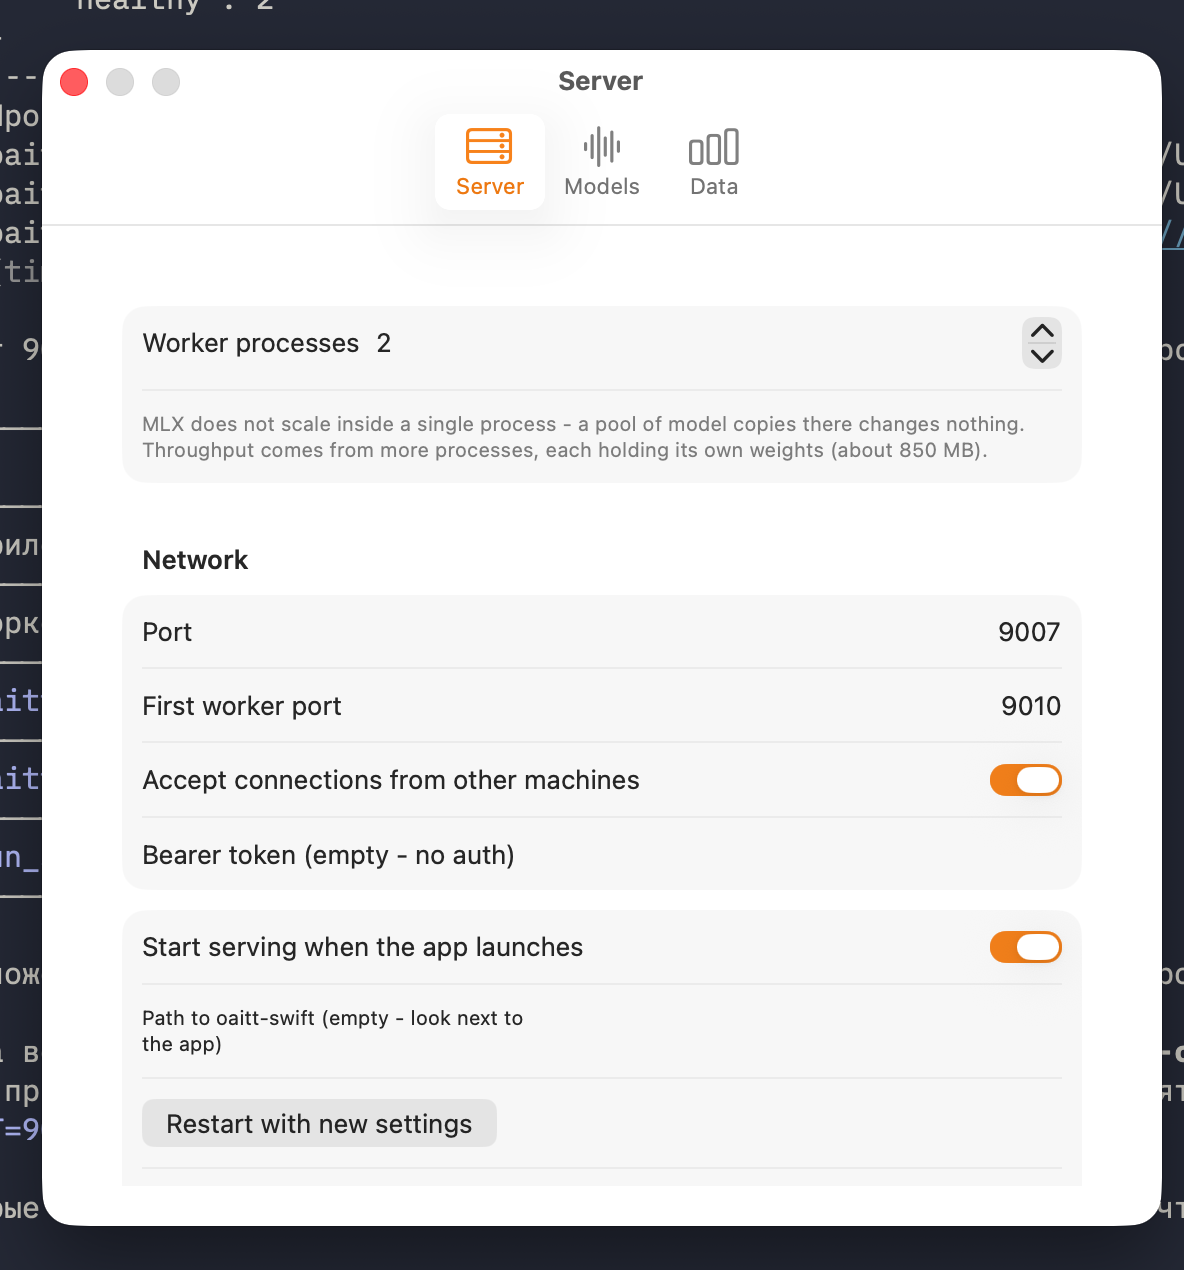
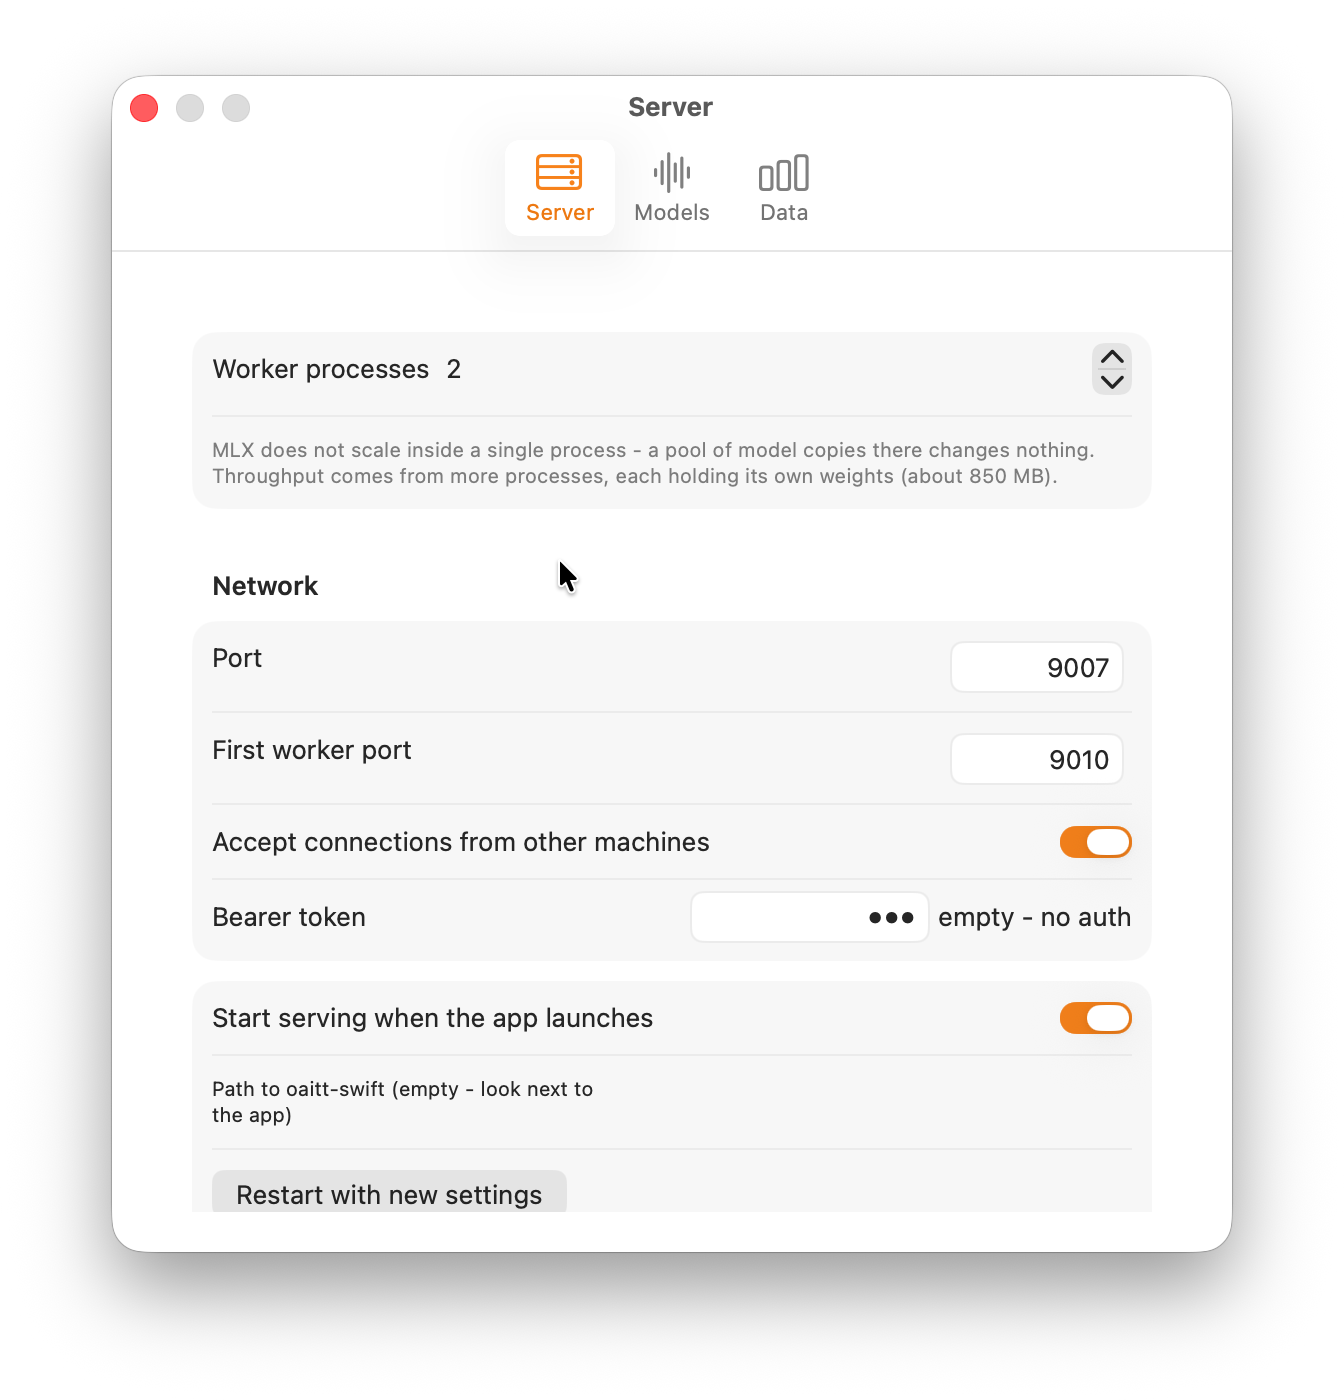
Fix port already used case

diff --git a/swift/Sources/oaitt-swift/OaittSwift.swift b/swift/Sources/oaitt-swift/OaittSwift.swift
@@ -57,6 +57,9 @@ struct ModelOptions: ParsableArguments {
     @Option(help: "Days of request logs to keep; 0 disables logging.")
     var logRetentionDays = 7
 
+    @Flag(help: "Exit when the parent process is gone; used by the app supervisor.")
+    var exitWithParent = false
+
     func makeTranscriber() throws -> GigaAMTranscriber {
         let dir = URL(fileURLWithPath: modelCacheDir).appendingPathComponent(modelType.rawValue)
         return try GigaAMTranscriber(
@@ -100,109 +103,6 @@ struct ModelOptions: ParsableArguments {
     }
 }
 
-struct Transcribe: ParsableCommand {
-    static let configuration = CommandConfiguration(abstract: "Transcribe one audio/video file.")
-
-    @Argument(help: "Path to the audio or video file.")
-    var input: String
-
-    @OptionGroup var model: ModelOptions
-
-    @Flag(help: "Print per-segment timings instead of plain text.")
-    var segments = false
-
-    func run() throws {
-        let loadStart = Date()
-        let transcriber = try model.makeTranscriber()
-        log("loaded \(model.modelType.rawValue) in \(elapsed(since: loadStart))")
-
-        let start = Date()
-        let result = try transcriber.transcribe(url: URL(fileURLWithPath: input))
-        log("transcribed in \(elapsed(since: start))")
-
-        if segments {
-            for s in result { print(String(format: "[%.2f -> %.2f] %@", s.start, s.end, s.text)) }
-        } else {
-            print(result.map(\.text).joined(separator: " "))
-        }
-    }
-
-    private func log(_ message: String) {
-        FileHandle.standardError.write(Data("\(message)\n".utf8))
-    }
-
-    private func elapsed(since: Date) -> String {
-        String(format: "%.2fs", Date().timeIntervalSince(since))
-    }
-}
-
-final class InstanceCounter: @unchecked Sendable {
-    private var value = 0
-    private let lock = NSLock()
-
-    func next() -> Int {
-        lock.withLock {
-            defer { value += 1 }
-            return value
-        }
-    }
-}
-
-struct Bench: ParsableCommand {
-    static let configuration = CommandConfiguration(
-        abstract: "In-process throughput bench: decodes once, then loops transcription.")
-
-    @Argument var input: String
-    @OptionGroup var model: ModelOptions
-    @Option(help: "Parallel worker threads.") var concurrency = 1
-    @Option(help: "Total transcriptions to run.") var iterations = 16
-    @Option(help: "Independent model copies; each worker gets its own.") var instances = 1
-
-    func run() throws {
-        let transcribers = try (0..<instances).map { _ in try model.makeTranscriber() }
-        let transcriber = transcribers[0]
-
-        let decodeStart = Date()
-        let audio = try AudioLoader.load(url: URL(fileURLWithPath: input))
-        let decodeSeconds = Date().timeIntervalSince(decodeStart)
-        let audioSeconds = Double(audio.count) / 16000
-
-        _ = transcriber.transcribe(audio: audio)  // warm kernels
-
-        for t in transcribers.dropFirst() { _ = t.transcribe(audio: audio) }
-
-        let group = DispatchGroup()
-        let queue = DispatchQueue(label: "bench", attributes: .concurrent)
-        let slots = DispatchSemaphore(value: concurrency)
-        let counter = InstanceCounter()
-        let start = Date()
-        for _ in 0..<iterations {
-            slots.wait()
-            queue.async(group: group) {
-                _ = transcribers[counter.next() % transcribers.count].transcribe(audio: audio)
-                slots.signal()
-            }
-        }
-        group.wait()
-        let wall = Date().timeIntervalSince(start)
-
-        print(String(format: "audio        %.1fs", audioSeconds))
-        print(
-            String(
-                format: "decode       %.2fs (%.0fx realtime)", decodeSeconds,
-                audioSeconds / decodeSeconds))
-        print(
-            String(
-                format: "iterations   %d @ concurrency %d, %d instance(s)", iterations, concurrency,
-                instances))
-        print(String(format: "wall         %.2fs", wall))
-        print(
-            String(
-                format: "throughput   %.3f rps, %.1fx realtime", Double(iterations) / wall,
-                Double(iterations) * audioSeconds / wall))
-    }
-}
-
 struct Serve: AsyncParsableCommand {
     static let configuration = CommandConfiguration(
         abstract: "Serve an OpenAI-compatible /v1/audio/transcriptions endpoint.")
@@ -219,6 +119,8 @@ struct Serve: AsyncParsableCommand {
     @OptionGroup var model: ModelOptions
 
     func run() async throws {
+        if model.exitWithParent { Self.exitWhenOrphaned() }
+
         let transcriber = try model.makeTranscriber()
         let registry = model.makeRegistry(fallback: transcriber)
         let modelType = model.modelType
@@ -479,6 +381,18 @@ struct Serve: AsyncParsableCommand {
             return json(payload)
         default:
             return json(["text": outText])
+        }
+    }
+
+    /// Иначе воркер переживает смерть приложения, остаётся сиротой и держит порт: новый
+    /// запуск не может его занять и выглядит как "worker crashed".
+    static func exitWhenOrphaned() {
+        let parent = getppid()
+        Thread.detachNewThread {
+            while true {
+                Thread.sleep(forTimeInterval: 2)
+                if getppid() != parent || getppid() == 1 { Foundation.exit(0) }
+            }
         }
     }
 

diff --git a/swift/Sources/oaitt-swift/Commands.swift b/swift/Sources/oaitt-swift/Commands.swift
@@ -1,0 +1,106 @@
+import ArgumentParser
+import Foundation
+import GigaAM
+
+struct Transcribe: ParsableCommand {
+    static let configuration = CommandConfiguration(abstract: "Transcribe one audio/video file.")
+
+    @Argument(help: "Path to the audio or video file.")
+    var input: String
+
+    @OptionGroup var model: ModelOptions
+
+    @Flag(help: "Print per-segment timings instead of plain text.")
+    var segments = false
+
+    func run() throws {
+        let loadStart = Date()
+        let transcriber = try model.makeTranscriber()
+        log("loaded \(model.modelType.rawValue) in \(elapsed(since: loadStart))")
+
+        let start = Date()
+        let result = try transcriber.transcribe(url: URL(fileURLWithPath: input))
+        log("transcribed in \(elapsed(since: start))")
+
+        if segments {
+            for s in result { print(String(format: "[%.2f -> %.2f] %@", s.start, s.end, s.text)) }
+        } else {
+            print(result.map(\.text).joined(separator: " "))
+        }
+    }
+
+    private func log(_ message: String) {
+        FileHandle.standardError.write(Data("\(message)\n".utf8))
+    }
+
+    private func elapsed(since: Date) -> String {
+        String(format: "%.2fs", Date().timeIntervalSince(since))
+    }
+}
+
+final class InstanceCounter: @unchecked Sendable {
+    private var value = 0
+    private let lock = NSLock()
+
+    func next() -> Int {
+        lock.withLock {
+            defer { value += 1 }
+            return value
+        }
+    }
+}
+
+struct Bench: ParsableCommand {
+    static let configuration = CommandConfiguration(
+        abstract: "In-process throughput bench: decodes once, then loops transcription.")
+
+    @Argument var input: String
+    @OptionGroup var model: ModelOptions
+    @Option(help: "Parallel worker threads.") var concurrency = 1
+    @Option(help: "Total transcriptions to run.") var iterations = 16
+    @Option(help: "Independent model copies; each worker gets its own.") var instances = 1
+
+    func run() throws {
+        let transcribers = try (0..<instances).map { _ in try model.makeTranscriber() }
+        let transcriber = transcribers[0]
+
+        let decodeStart = Date()
+        let audio = try AudioLoader.load(url: URL(fileURLWithPath: input))
+        let decodeSeconds = Date().timeIntervalSince(decodeStart)
+        let audioSeconds = Double(audio.count) / 16000
+
+        _ = transcriber.transcribe(audio: audio)  // warm kernels
+
+        for t in transcribers.dropFirst() { _ = t.transcribe(audio: audio) }
+
+        let group = DispatchGroup()
+        let queue = DispatchQueue(label: "bench", attributes: .concurrent)
+        let slots = DispatchSemaphore(value: concurrency)
+        let counter = InstanceCounter()
+        let start = Date()
+        for _ in 0..<iterations {
+            slots.wait()
+            queue.async(group: group) {
+                _ = transcribers[counter.next() % transcribers.count].transcribe(audio: audio)
+                slots.signal()
+            }
+        }
+        group.wait()
+        let wall = Date().timeIntervalSince(start)
+
+        print(String(format: "audio        %.1fs", audioSeconds))
+        print(
+            String(
+                format: "decode       %.2fs (%.0fx realtime)", decodeSeconds,
+                audioSeconds / decodeSeconds))
+        print(
+            String(
+                format: "iterations   %d @ concurrency %d, %d instance(s)", iterations, concurrency,
+                instances))
+        print(String(format: "wall         %.2fs", wall))
+        print(
+            String(
+                format: "throughput   %.3f rps, %.1fx realtime", Double(iterations) / wall,
+                Double(iterations) * audioSeconds / wall))
+    }
+}

diff --git a/swift/Sources/OAITT/Supervisor.swift b/swift/Sources/OAITT/Supervisor.swift
@@ -40,6 +40,27 @@ final class Supervisor: @unchecked Sendable {
     private var shuttingDown = false
     private let queue = DispatchQueue(label: "oaitt.supervisor")
 
+    /// Кто держит порт. Чаще всего это осиротевший воркер прошлого запуска, и без этой
+    /// проверки всё выглядит как "worker crashed 11 times".
+    static func portInUse(_ port: Int) -> String? {
+        let process = Process()
+        process.executableURL = URL(fileURLWithPath: "/usr/sbin/lsof")
+        process.arguments = ["-nP", "-iTCP:\(port)", "-sTCP:LISTEN", "-F", "c"]
+        let pipe = Pipe()
+        process.standardOutput = pipe
+        process.standardError = FileHandle.nullDevice
+        guard (try? process.run()) != nil else { return nil }
+
+        let data = pipe.fileHandleForReading.readDataToEndOfFile()
+        process.waitUntilExit()
+
+        let names = String(decoding: data, as: UTF8.self)
+            .split(separator: "\n")
+            .filter { $0.hasPrefix("c") }
+            .map { String($0.dropFirst()) }
+        return names.first
+    }
+
     /// Понятное сообщение вместо падения воркера: чего именно не хватает и где искали.
     static func missingWeights(settings: AppSettings) -> String? {
         let directory = URL(fileURLWithPath: settings.modelCacheDir)
@@ -79,6 +100,12 @@ final class Supervisor: @unchecked Sendable {
         // "crashed 11 times" вместо понятного "весов нет вот здесь".
         if let missing = Self.missingWeights(settings: settings) {
             state = .failed(missing)
+            return
+        }
+
+        if let busy = Self.portInUse(settings.port) {
+            state = .failed(
+                "port \(settings.port) is taken by \(busy) - stop it or pick another port")
             return
         }
 
@@ -127,6 +154,7 @@ final class Supervisor: @unchecked Sendable {
                 arguments += ["--telemetry-dir", settings.telemetryDir]
             }
             arguments += ["--log-retention-days", String(settings.logRetentionDays)]
+            arguments.append("--exit-with-parent")
             let pid = launch(
                 executable: executable, arguments: arguments, workerIndex: index, port: port)
             workers.append(
@@ -141,6 +169,7 @@ final class Supervisor: @unchecked Sendable {
             ]
             // Workers get the same token, so the balancer must also present it upstream.
             balancerArguments += ["--api-key", settings.apiKey, "--backend-key", settings.apiKey]
+            balancerArguments.append("--exit-with-parent")
             balancer = spawn(executable: executable, arguments: balancerArguments)
         }
         state = .running

diff --git a/swift/Sources/oaitt-swift/Balance.swift b/swift/Sources/oaitt-swift/Balance.swift
@@ -34,7 +34,12 @@ struct Balance: AsyncParsableCommand {
     @Option(help: "Requests allowed in flight before the balancer answers 503.")
     var maxInFlight = 64
 
+    @Flag(help: "Exit when the parent process is gone; used by the app supervisor.")
+    var exitWithParent = false
+
     func run() async throws {
+        if exitWithParent { Serve.exitWhenOrphaned() }
+
         let urls = backends.split(separator: ",").compactMap {
             URL(string: $0.trimmingCharacters(in: .whitespaces))
         }
